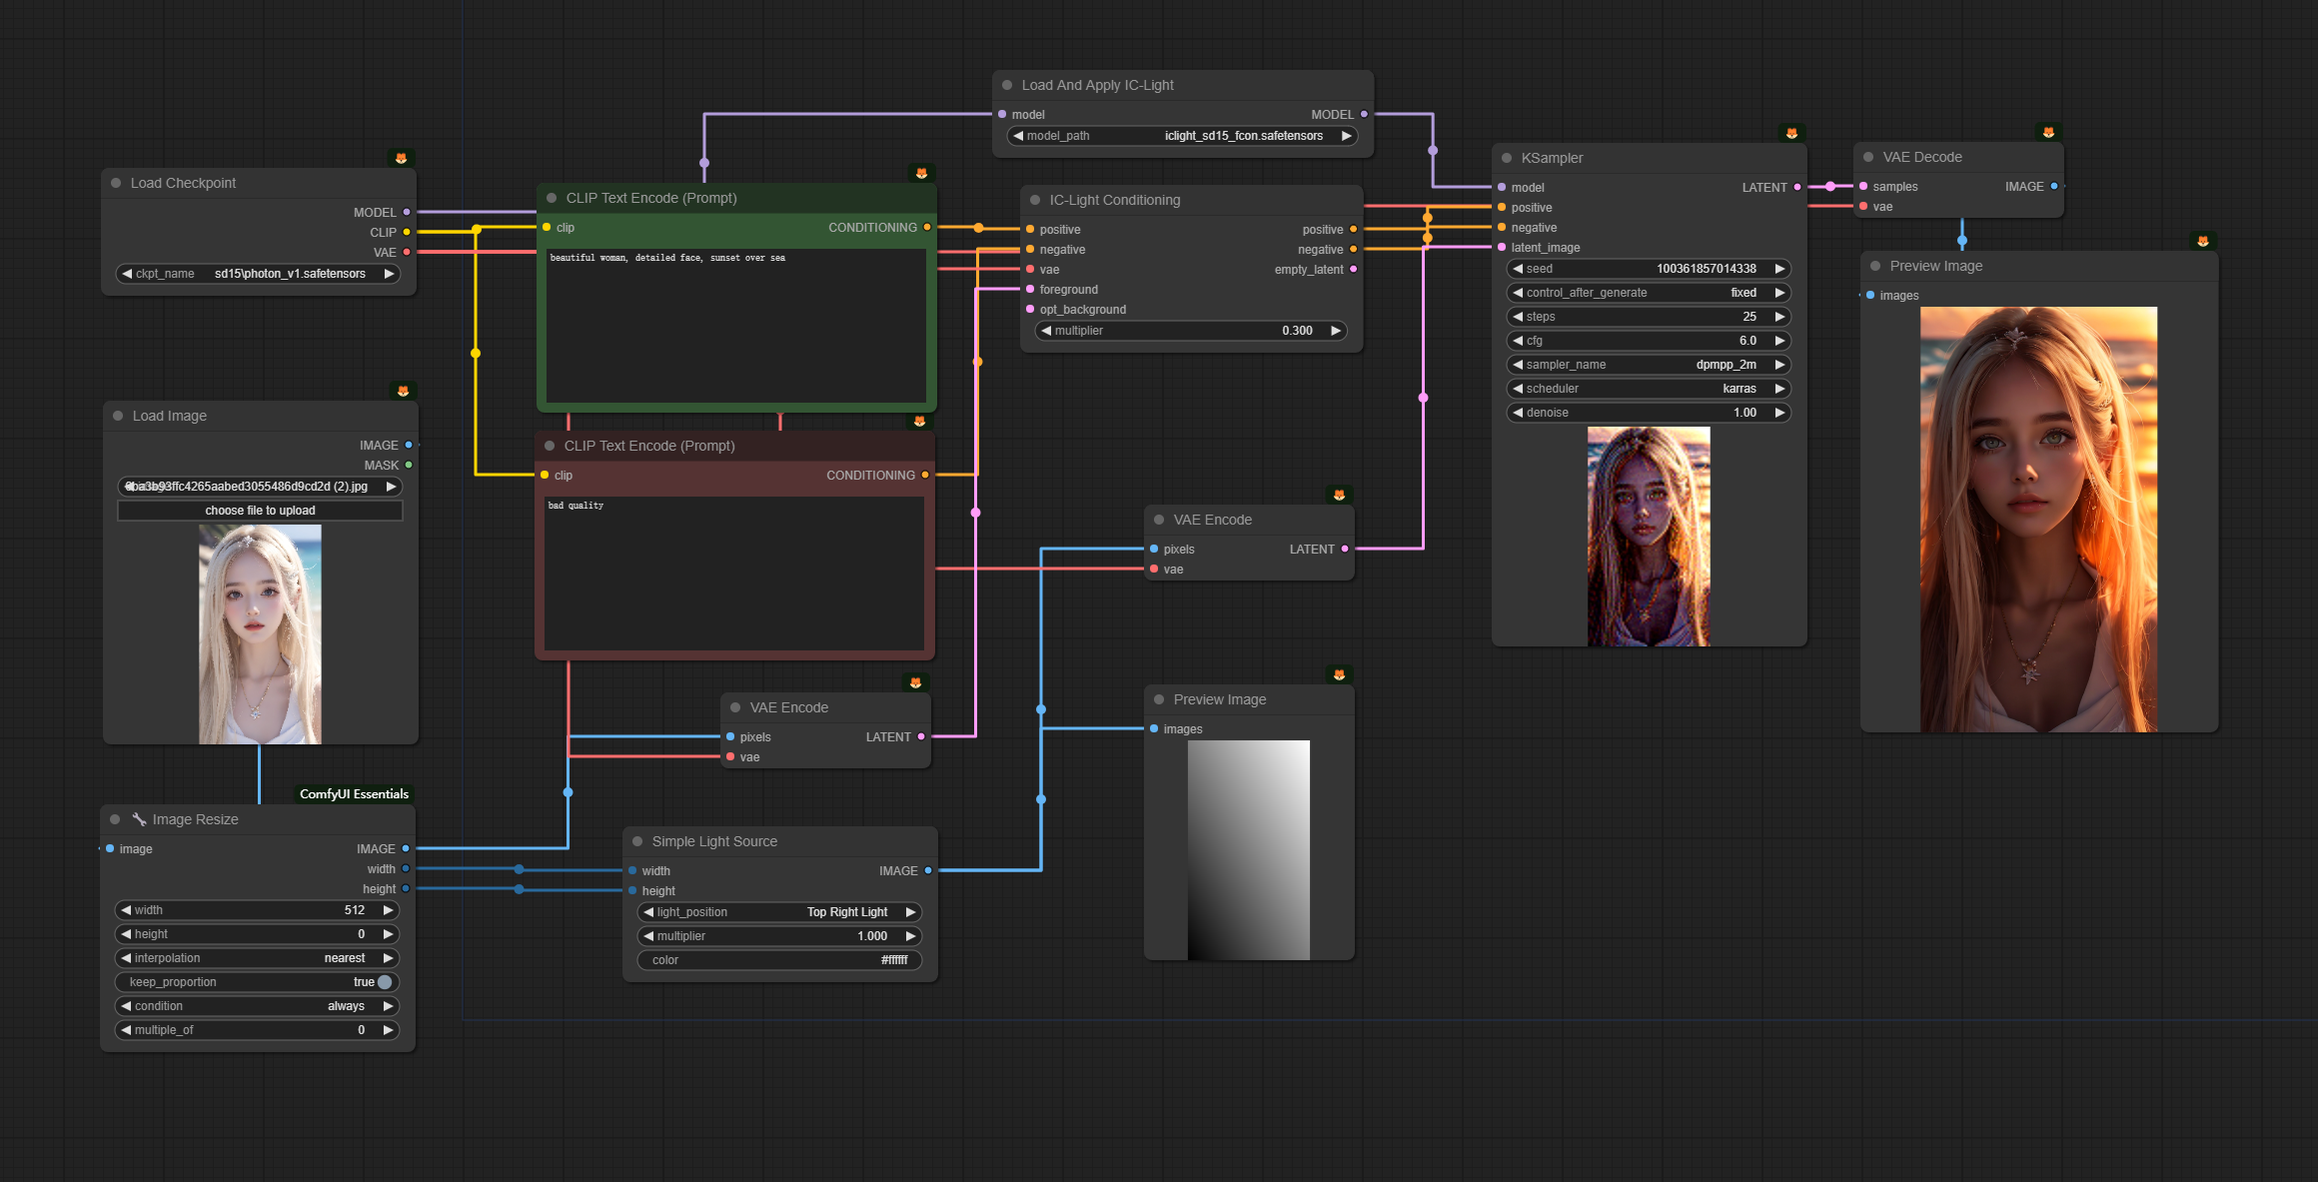
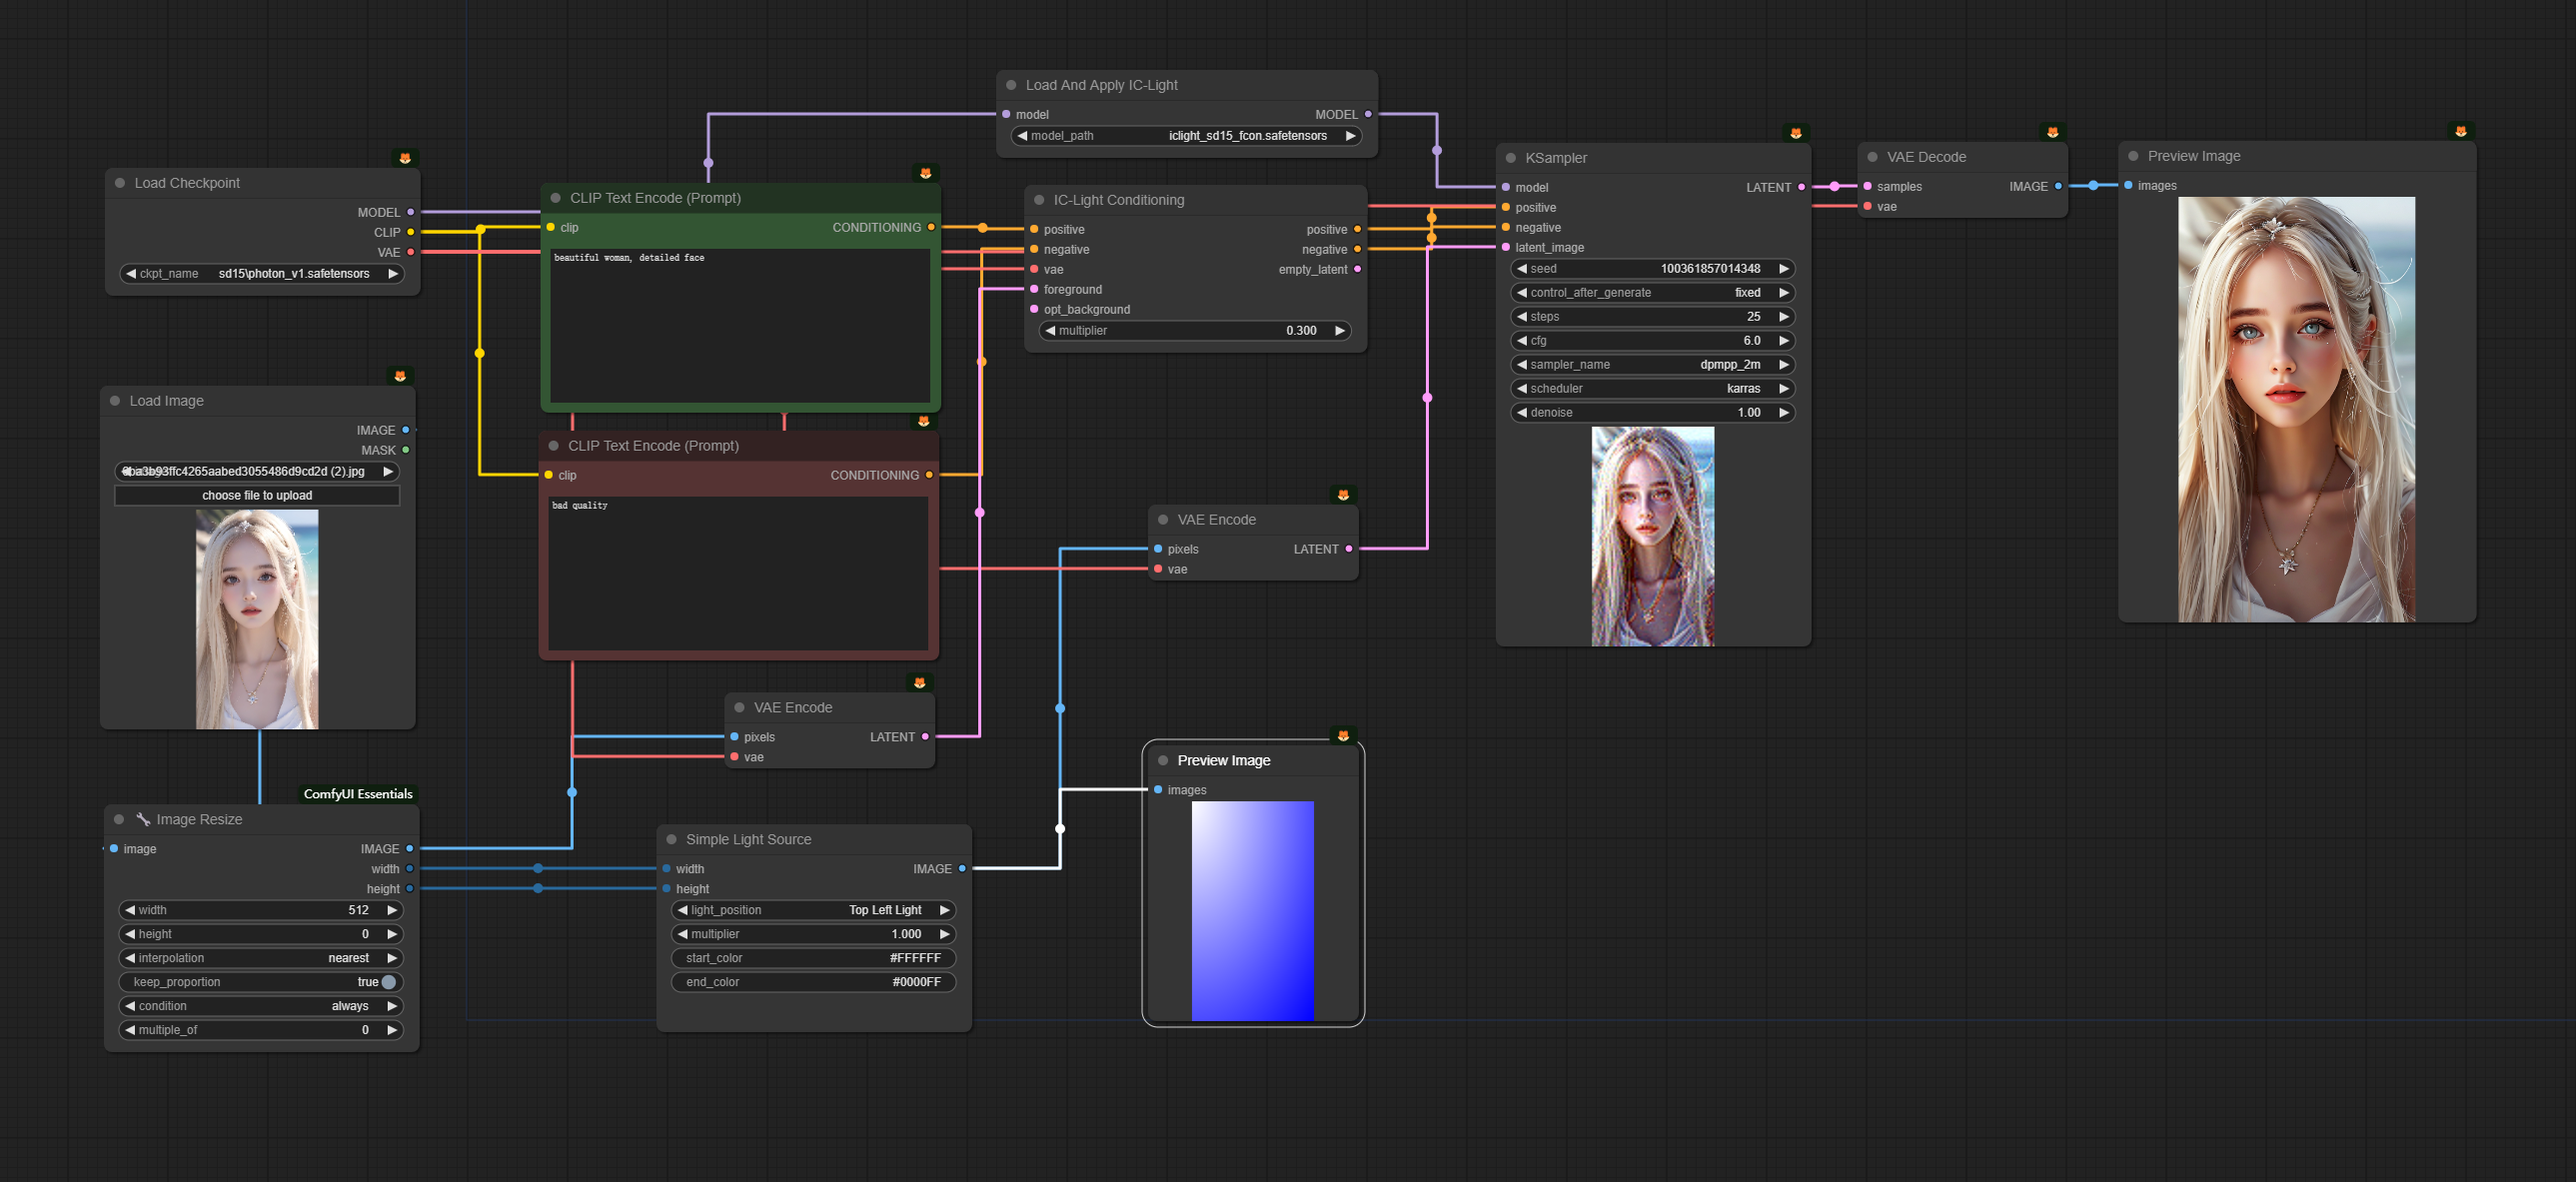
add start_color and end_color for light source

diff --git a/nodes.py b/nodes.py
@@ -176,61 +176,73 @@ class LightPosition(Enum):
     BOTTOM_LEFT = "Bottom Left Light"
     BOTTOM_RIGHT = "Bottom Right Light"
 
-def generate_gradient_image(width:int, height:int, color_rgb: tuple, multiplier: float, lightPosition:LightPosition):
+def toRgb(color):
+    if color.startswith('#') and len(color) == 7:  # e.g. "#RRGGBB"
+        color_rgb =tuple(int(color[i:i+2], 16) for i in (1, 3, 5))
+    else:  # e.g. "255,255,255"
+        color_rgb = tuple(int(i) for i in color.split(','))
+    return color_rgb
+
+def generate_gradient_image(width:int, height:int, start_color: tuple, end_color: tuple, multiplier: float, lightPosition:LightPosition):
     """
     Generate a gradient image with a light source effect.
-    
+
     Parameters:
     width (int): Width of the image.
     height (int): Height of the image.
-    color_rgb: Color RGB of the image.
-    multiplier: weight of light.
-    lightPosition (str): Position of the light source. 
-                     It can be 'Left Light', 'Right Light', 'Top Light', 'Bottom Light',
-                     'Top Left Light', 'Top Right Light', 'Bottom Left Light', 'Bottom Right Light'.
-    
+    start_color: Starting color RGB of the gradient.
+    end_color: Ending color RGB of the gradient.
+    multiplier: Weight of light.
+    lightPosition (LightPosition): Position of the light source.
+
     Returns:
     np.array: 2D gradient image array.
     """
+    # Create a gradient from 0 to 1 and apply multiplier
     if lightPosition == LightPosition.LEFT:
-        gradient = np.tile(np.linspace(1, 0, width), (height, 1))
+        gradient = np.tile(np.linspace(0, 1, width)**multiplier, (height, 1))
     elif lightPosition == LightPosition.RIGHT:
-        gradient = np.tile(np.linspace(0, 1, width), (height, 1))
+        gradient = np.tile(np.linspace(1, 0, width)**multiplier, (height, 1))
     elif lightPosition == LightPosition.TOP:
-        gradient = np.tile(np.linspace(1, 0, height), (width, 1)).T
+        gradient = np.tile(np.linspace(0, 1, height)**multiplier, (width, 1)).T
     elif lightPosition == LightPosition.BOTTOM:
-        gradient = np.tile(np.linspace(0, 1, height), (width, 1)).T
-    elif lightPosition == LightPosition.TOP_LEFT:
-        x = np.linspace(1, 0, width)
-        y = np.linspace(1, 0, height)
-        x_mesh, y_mesh = np.meshgrid(x, y)
-        gradient = (x_mesh + y_mesh) / 2
-    elif lightPosition == LightPosition.TOP_RIGHT:
-        x = np.linspace(0, 1, width)
-        y = np.linspace(1, 0, height)
-        x_mesh, y_mesh = np.meshgrid(x, y)
-        gradient = (x_mesh + y_mesh) / 2
-    elif lightPosition == LightPosition.BOTTOM_LEFT:
-        x = np.linspace(1, 0, width)
-        y = np.linspace(0, 1, height)
-        x_mesh, y_mesh = np.meshgrid(x, y)
-        gradient = (x_mesh + y_mesh) / 2
+        gradient = np.tile(np.linspace(1, 0, height)**multiplier, (width, 1)).T
     elif lightPosition == LightPosition.BOTTOM_RIGHT:
-        x = np.linspace(0, 1, width)
-        y = np.linspace(0, 1, height)
+        x = np.linspace(1, 0, width)**multiplier
+        y = np.linspace(1, 0, height)**multiplier
         x_mesh, y_mesh = np.meshgrid(x, y)
-        gradient = (x_mesh + y_mesh) / 2
+        gradient = np.sqrt(x_mesh**2 + y_mesh**2) / np.sqrt(2.0)
+    elif lightPosition == LightPosition.BOTTOM_LEFT:
+        x = np.linspace(0, 1, width)**multiplier
+        y = np.linspace(1, 0, height)**multiplier
+        x_mesh, y_mesh = np.meshgrid(x, y)
+        gradient = np.sqrt(x_mesh**2 + y_mesh**2) / np.sqrt(2.0)
+    elif lightPosition == LightPosition.TOP_RIGHT:
+        x = np.linspace(1, 0, width)**multiplier
+        y = np.linspace(0, 1, height)**multiplier
+        x_mesh, y_mesh = np.meshgrid(x, y)
+        gradient = np.sqrt(x_mesh**2 + y_mesh**2) / np.sqrt(2.0)
+    elif lightPosition == LightPosition.TOP_LEFT:
+        x = np.linspace(0, 1, width)**multiplier
+        y = np.linspace(0, 1, height)**multiplier
+        x_mesh, y_mesh = np.meshgrid(x, y)
+        gradient = np.sqrt(x_mesh**2 + y_mesh**2) / np.sqrt(2.0)
     else:
-        raise ValueError("Unsupported position. Choose from 'Left Light', 'Right Light', 'Top Light', 'Bottom Light','Top Left Light', 'Top Right Light', 'Bottom Left Light', 'Bottom Right Light'.")
-    
-    gradient = gradient * multiplier
-    gradient_x = gradient * color_rgb[0]
-    gradient_y = gradient * color_rgb[1]
-    gradient_z = gradient * color_rgb[2]
-    gradient = [gradient_x, gradient_y, gradient_z]
-    gradient = np.stack(gradient, axis=-1).astype(np.uint8)
+        raise ValueError(f"Unsupported position. Choose from {', '.join([member.value for member in LightPosition])}.")
 
-    return gradient
+    # Interpolate between start_color and end_color based on the gradient
+    gradient_img = np.zeros((height, width, 3), dtype=np.float32)
+    for i in range(3):
+        gradient_img[..., i] = start_color[i] + (end_color[i] - start_color[i]) * gradient
+    
+    gradient_img = np.clip(gradient_img, 0, 255).astype(np.uint8)
+    return gradient_img
+
+
+def numpy_to_tensor(array: np.ndarray) -> torch.Tensor:
+    """Convert a numpy array to a tensor and scale its values from 0-255 to 0-1."""
+    array = array.astype(np.float32) / 255.0
+    return torch.from_numpy(array)[None,]
 
 
 class LightSource:
@@ -238,13 +250,12 @@ class LightSource:
     def INPUT_TYPES(s):
         return {
             "required": {
-                "light_position": (["Left Light", "Right Light", "Top Light", "Bottom Light",'Top Left Light', 'Top Right Light', 'Bottom Left Light', 'Bottom Right Light'],),
-                "multiplier": ("FLOAT", {"default": 0.5, "min": 0.0, "max": 1.0, "step": 0.001}),
-                "color": ("STRING", {"default": "#ffffff"}),
+                "light_position": ([member.value for member in LightPosition],),
+                "multiplier": ("FLOAT", {"default": 1.0, "min": 0.0, "max": 1.0, "step": 0.001}),
+                "start_color": ("STRING", {"default": "#FFFFFF"}),
+                "end_color": ("STRING", {"default": "#000000"}),
                 "width": ("INT", { "default": 512, "min": 0, "max": MAX_RESOLUTION, "step": 8, }),
-                "height": ("INT", { "default": 512, "min": 0, "max": MAX_RESOLUTION, "step": 8, }),
-                "multiplier": ("FLOAT", { "default": 1.0, "min": 0.0, "max": 1.0, "step": 0.01, }),
-                "color": ("STRING", {"default": "#FFFFFF"})
+                "height": ("INT", { "default": 512, "min": 0, "max": MAX_RESOLUTION, "step": 8, })
             } 
         }
     
@@ -254,19 +265,13 @@ class LightSource:
     CATEGORY = "IC-Light"
     DESCRIPTION = """Simple Light Source"""
 
-    def execute(self, light_position, multiplier, color, width, height):
-        if color.startswith('#') and len(color) == 7:  # e.g. "#RRGGBB"
-            color_hex = color.lstrip('#')
-            color_rgb =tuple(int(color_hex[i:i+2], 16) for i in (0, 2, 4))
-        else:
-            color_rgb = tuple(int(i) for i in color.split(','))
-        
+    def execute(self, light_position, multiplier, start_color, end_color, width, height):
         lightPosition = LightPosition(light_position)
-        image = generate_gradient_image(width, height, color_rgb, multiplier, lightPosition)
+        start_color_rgb = toRgb(start_color)
+        end_color_rgb = toRgb(end_color)
         
-        # Convert a numpy array to a tensor and scale its values from 0-255 to 0-1
-        image = image.astype(np.float32) / 255.0
-        image = torch.from_numpy(image)[None,]
+        image = generate_gradient_image(width, height, start_color_rgb, end_color_rgb, multiplier, lightPosition)
+        image = numpy_to_tensor(image)
         return (image,)
 
     
